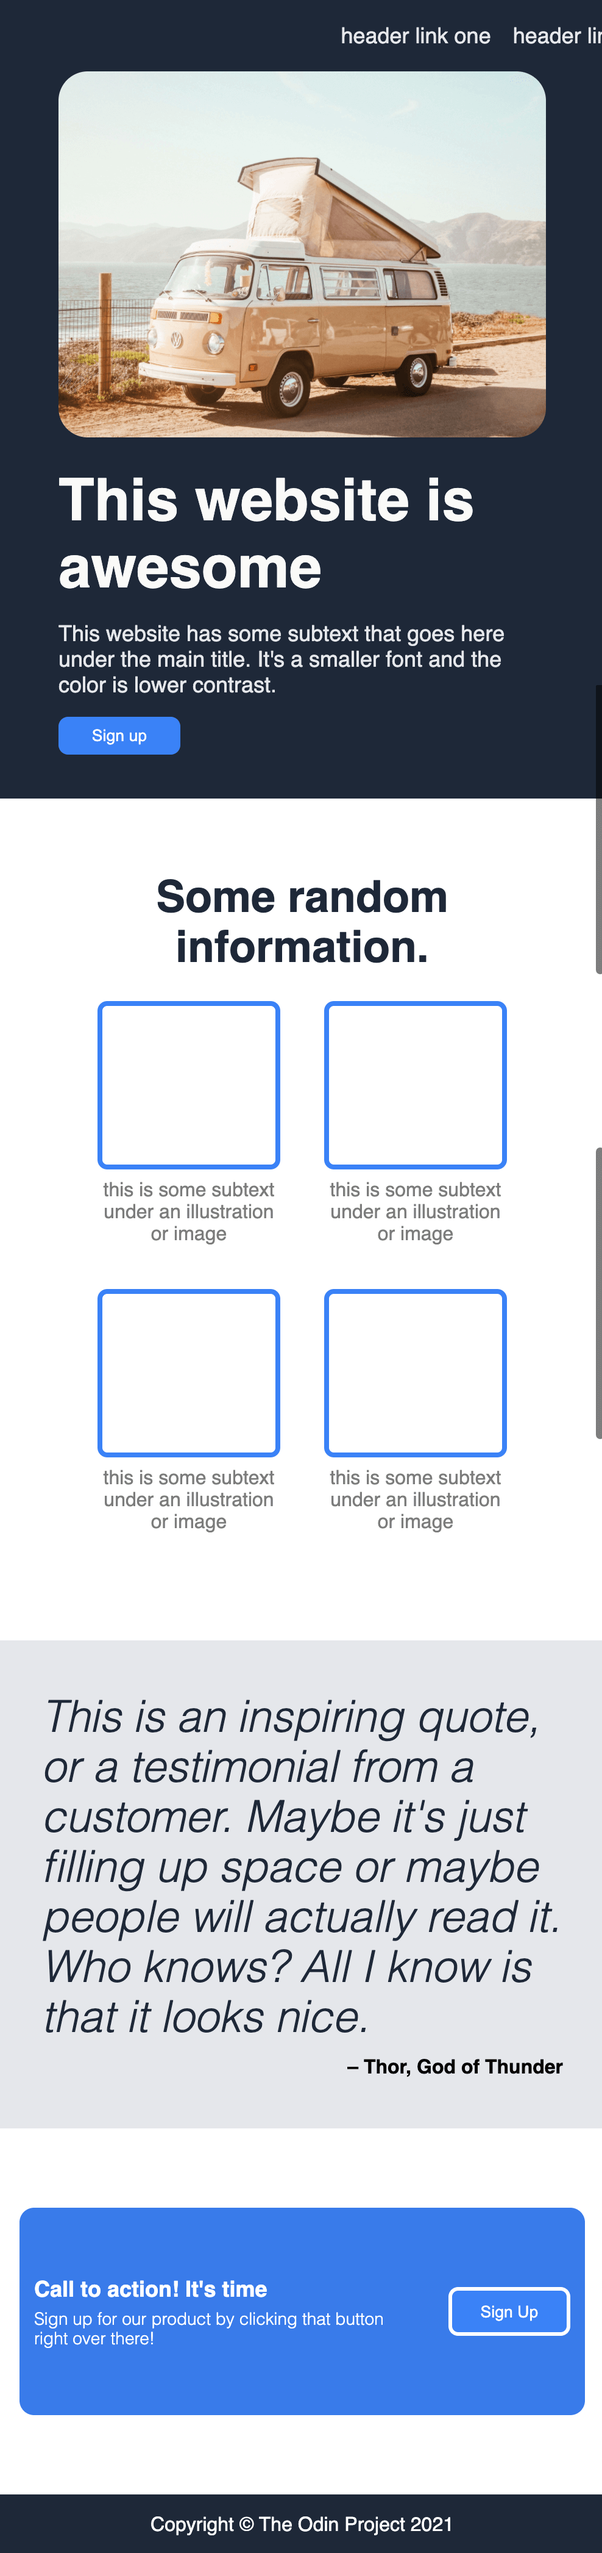
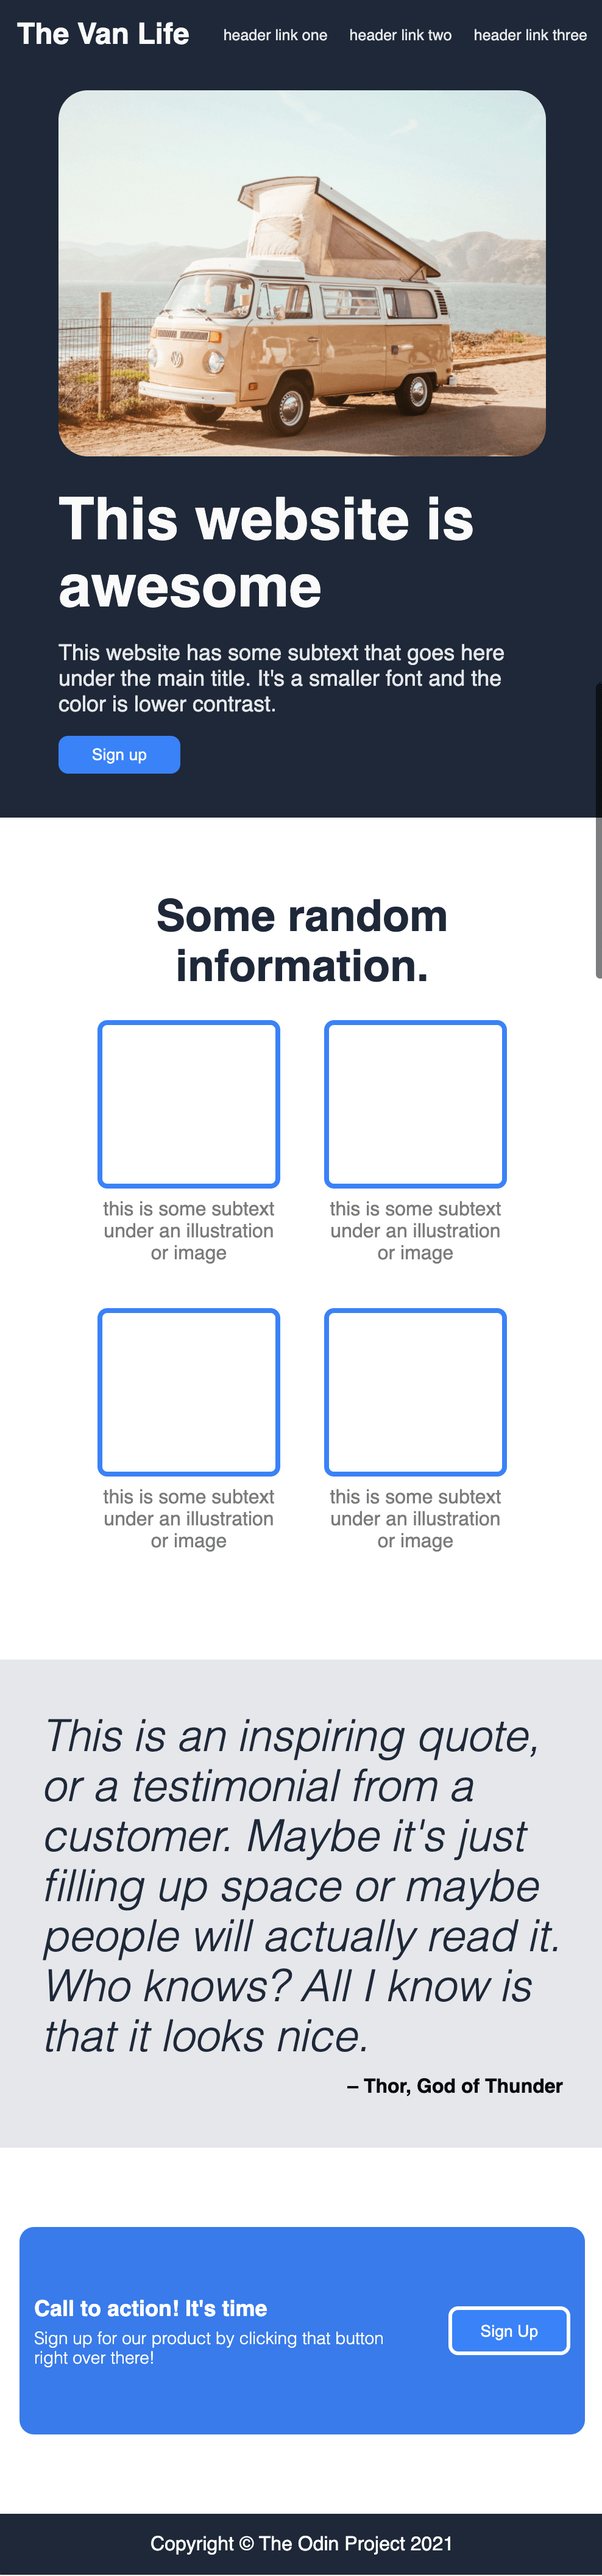
responsive text

diff --git a/styles.css b/styles.css
@@ -29,9 +29,8 @@ body {
     align-items: center;
     color: #E5E7EB;
     padding: 16px;
-
-    align-self: center;
-    min-width: 924px;
+    /* align-self: center; */
+    /* min-width: 924px; */
 }
 
 .list {
@@ -42,6 +41,7 @@ body {
 .logo {
     font-size: 24px;
     color: #F9FAF8;
+    flex-shrink: 0;
 }
 
 .list {
@@ -61,7 +61,8 @@ a {
     align-self: center;
     gap: 24px;
     flex: 1;
-    width: 924px;
+    padding: 0rem 2rem;
+    max-width: 924px;
 }
 
 .hero-left {
@@ -72,9 +73,13 @@ a {
 }
 
 .content img {
-    width: auto;
-    height: 300px;
+    width: 400px;
+    max-width: 50%;
+    height: auto;
+    /* width: auto; */
+    /* height: 300px; */
     border-radius: 24px;
+    flex-shrink: 1;
 }
 
 .hero-main {
@@ -243,5 +248,14 @@ a {
     .hero-left {
         width: 400px;
         margin-bottom: 36px;
+    }
+
+    .content img {
+        max-width: 100%;
+        margin-top: 16px;
+    }
+
+    .list a {
+        font-size: 2.5vw;
     }
 }
